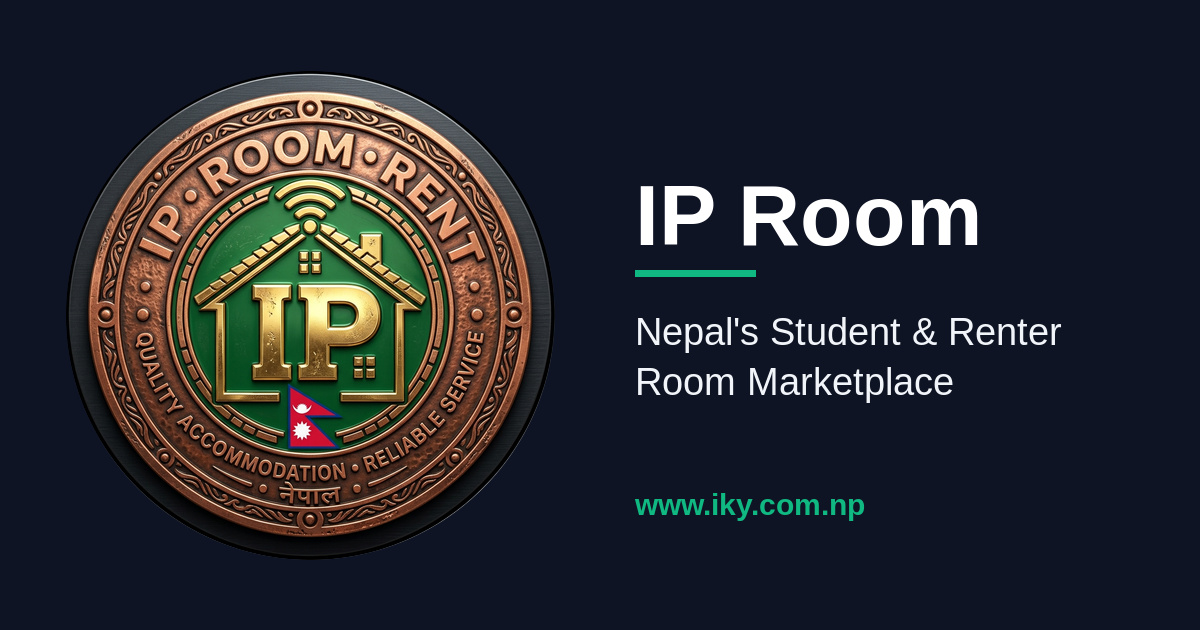
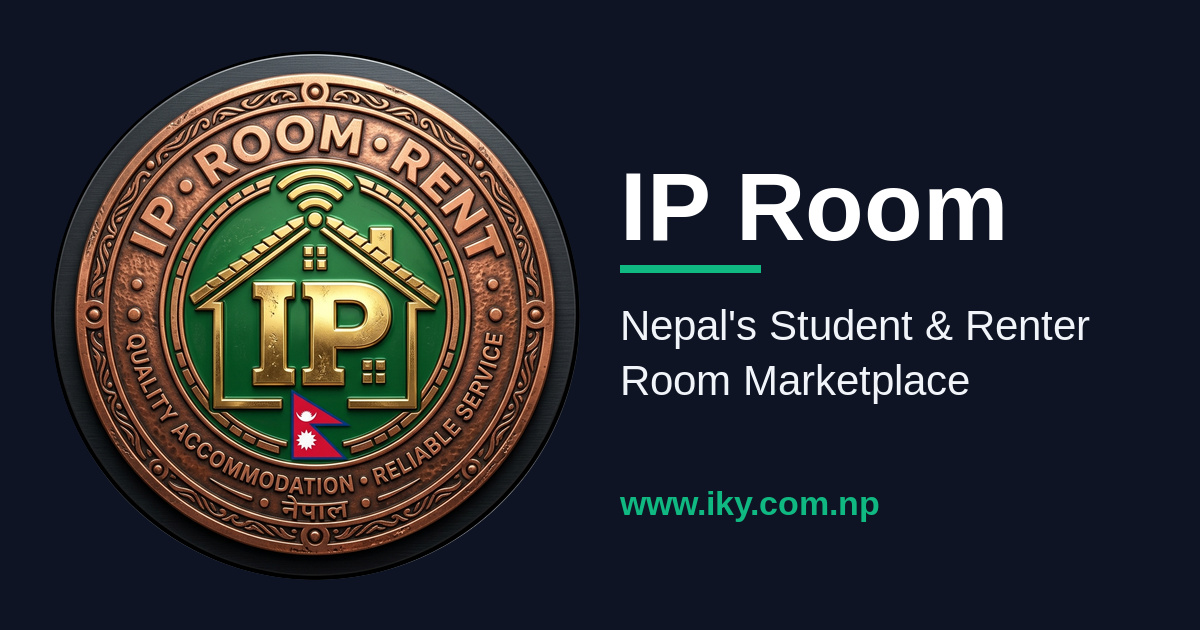
ui: update navbar branding and assets
Refactor navbar styling for better visual consistency and update brand assets.

diff --git a/src/components/Navbar.tsx b/src/components/Navbar.tsx
@@ -249,18 +249,18 @@ export const Navbar: React.FC<NavbarProps> = ({
                 onClick={() => navigateTo('browse')}
                 className="flex items-center gap-2.5 text-left group shrink-0"
               >
-                <div className="w-10 h-10 sm:w-11 sm:h-11 rounded-full p-0.5 bg-gradient-to-tr from-amber-600/40 via-emerald-600/30 to-amber-500/50 shadow-md group-hover:scale-105 transition-transform shrink-0 flex items-center justify-center">
+                <div className="w-12 h-12 sm:w-14 sm:h-14 md:w-15 md:h-15 rounded-full p-0.5 bg-gradient-to-tr from-amber-600/50 via-emerald-600/40 to-amber-500/60 shadow-lg group-hover:scale-105 transition-all shrink-0 flex items-center justify-center overflow-hidden ring-2 ring-emerald-500/20">
                   <img
                     src={ipRoomLogo}
                     alt="IP Room Rent Nepal"
-                    className="w-full h-full object-cover rounded-full shadow-xs"
+                    className="w-full h-full object-cover rounded-full shadow-xs scale-110 sm:scale-115 transition-transform duration-200"
                   />
                 </div>
                 <div className="min-w-0">
                   <span className="font-display font-extrabold text-base xs:text-lg sm:text-xl text-slate-900 tracking-tight block leading-tight whitespace-nowrap">
                     IP Room
                   </span>
-                  <span className="text-[9px] xs:text-[10px] sm:text-[11px] text-slate-500 font-medium block leading-tight whitespace-nowrap">
+                  <span className="text-[10px] sm:text-xs text-slate-500 font-medium block leading-tight whitespace-nowrap">
                     {language === 'np' ? 'नेपालको कोठा बजार' : "Nepal's Room Finder"}
                   </span>
                 </div>
